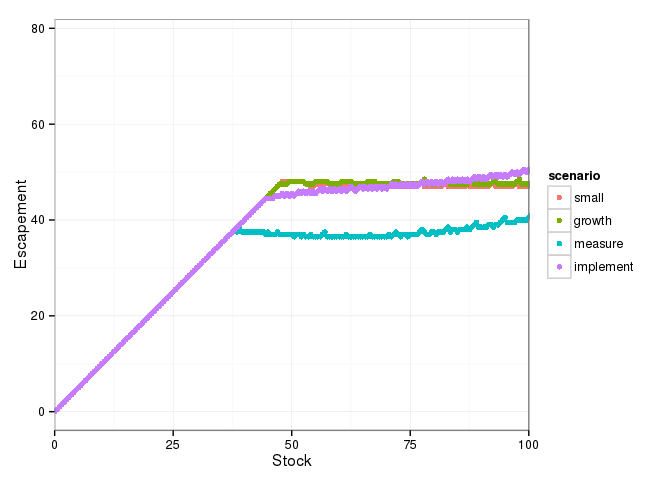
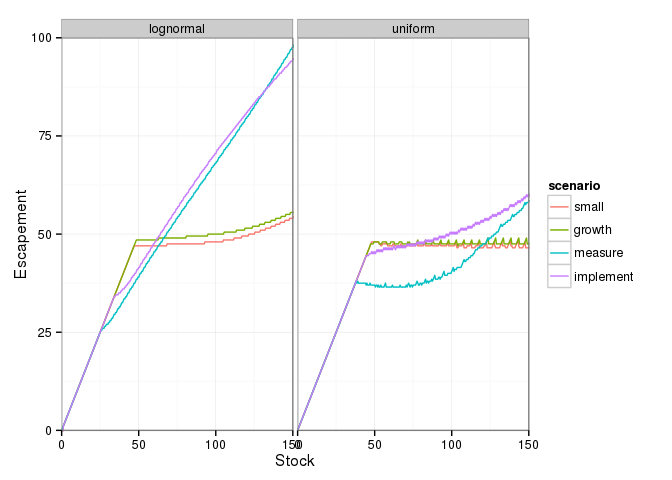
Results when using Sethi Bayes rule version for uniform

diff --git a/inst/notebook/carl_fig3.md b/inst/notebook/carl_fig3.md
@@ -1,8 +1,3 @@
----
-output: 
-  html_document: 
-    keep_md: yes
----
 ``` r
 library("dplyr")
 library("tidyr")
@@ -11,23 +6,45 @@ library("multipleuncertainty")
 ```
 
 ``` r
-grid <- seq(0, 200, length = 401)
-small     <- multiple_uncertainty(f = logistic, x_grid = grid, sigma_g = 0.1, sigma_m = 0.1, sigma_i = 0.1, noise_dist = "uniform")
-growth    <- multiple_uncertainty(f = logistic, x_grid = grid, sigma_g = 0.5, sigma_m = 0.1, sigma_i = 0.1, noise_dist = "uniform")
-measure   <- multiple_uncertainty(f = logistic, x_grid = grid, sigma_g = 0.1, sigma_m = 0.5, sigma_i = 0.1, noise_dist = "uniform")
-implement <- multiple_uncertainty(f = logistic, x_grid = grid, sigma_g = 0.1, sigma_m = 0.1, sigma_i = 0.5, noise_dist = "uniform")
-df <- data.frame(y_grid = grid, small = small, growth = growth, 
+fig3 <- function(noise){  
+  grid <- seq(0, 200, by=0.5)
+  small     <- multiple_uncertainty(f = logistic, x_grid = grid, sigma_g = 0.1, sigma_m = 0.1, sigma_i = 0.1, noise_dist = noise)
+  growth    <- multiple_uncertainty(f = logistic, x_grid = grid, sigma_g = 0.5, sigma_m = 0.1, sigma_i = 0.1, noise_dist = noise)
+  measure   <- multiple_uncertainty(f = logistic, x_grid = grid, sigma_g = 0.1, sigma_m = 0.5, sigma_i = 0.1, noise_dist = noise)
+  implement <- multiple_uncertainty(f = logistic, x_grid = grid, sigma_g = 0.1, sigma_m = 0.1, sigma_i = 0.5, noise_dist = noise)
+  df <- data.frame(y_grid = grid, small = small, growth = growth, 
                    measure = measure, implement = implement) %>%
     tidyr::gather(scenario, value, -y_grid)
+}
+
+df <- 
+data.frame(noise = c("uniform", "lognormal")) %>%
+  dplyr::group_by(noise) %>%
+  dplyr::do(fig3(.$noise))
 ```
 
 ``` r
-df %>% 
-  ggplot(aes(x = y_grid, y = value, col = scenario)) + 
-    geom_point()  + 
-    xlab("Stock") + ylab("Escapement") + 
-    coord_cartesian(xlim = c(0, 100)) + 
+df %>% ggplot(aes(x = y_grid, y = value, col = scenario)) + 
+    geom_line()  + 
+    facet_wrap(~ noise) + 
+    xlab("Stock") + 
+    ylab("Escapement") + 
+    coord_cartesian(xlim = c(0, 150), ylim = c(0,100)) + 
     theme_bw()
 ```
 
 ![](carl_fig3_files/figure-markdown_github/unnamed-chunk-3-1.png)
+
+Reed Result
+-----------
+
+``` r
+reed <- multiple_uncertainty(noise_dist = "lognormal")
+
+qplot(seq_along(reed), reed) + 
+    coord_cartesian(xlim = c(0, 150), ylim = c(0, 150)) + 
+    xlab("Stock") + ylab("Escapement") +
+    theme_bw()
+```
+
+![](carl_fig3_files/figure-markdown_github/unnamed-chunk-4-1.png)
